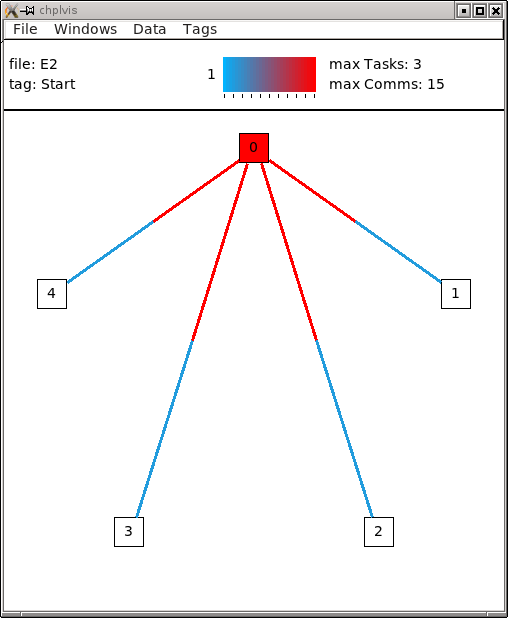
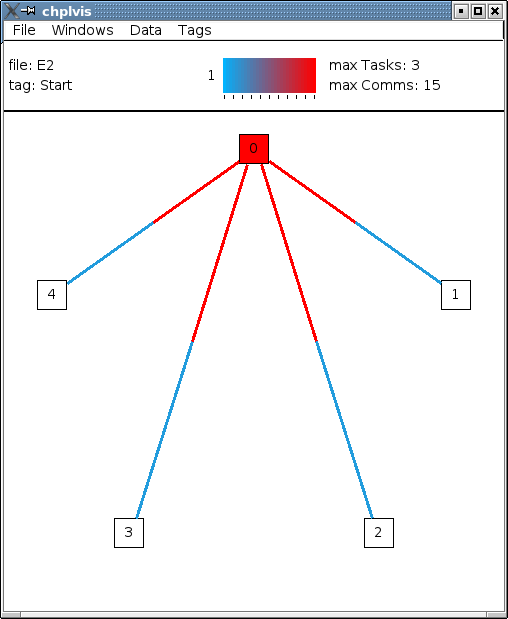
Spelling fix, get common decoration on large images.

diff --git a/doc/chplvis/chplvis.rst b/doc/chplvis/chplvis.rst
@@ -395,7 +395,7 @@ in the *max* tagged code.  It is know that the Jacobi code will not
 diverge and thus extra computation steps will not produce a "wrong"
 answer.  By doing extra computation, the result will be a bit more
 accurate.  The reader should use the *compLoop* and the *dirname*
-config variables to run several versions of this program yeilding
+config variables to run several versions of this program yielding
 a *chplvis* directory for each run.  Then one can compare the different
 results by running *chplvis* multiple times.  By a good choice of
 the *compLoop* variable, one can dramatically reduce the CPU time for
